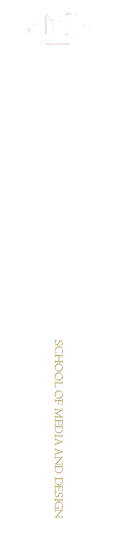
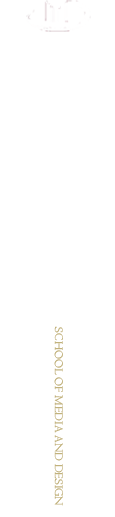
Change the btn up down pos

diff --git a/site/assets/css/home.css b/site/assets/css/home.css
@@ -47,12 +47,23 @@
 
 .page > .banner > .btn-page-up,
 .page > .banner > .btn-page-down {
+    position: absolute;
+    left: 33%;
+
     margin: auto;
     width: 30%;
     color: #b8ac86;
     cursor: pointer;
 
     -webkit-animation: twinkling 1.5s infinite ease-in-out;
+}
+
+.page > .banner > .btn-page-up {
+    top: 15px;
+}
+
+.page > .banner > .btn-page-down {
+    bottom: 20px;
 }
 
 .page > .banner > .btn-page-up > img,
@@ -277,6 +288,9 @@
 #page-1 > .banner {
     padding-top: 5%;
 }
+#page-1 .banner > .btn-page-down {
+    bottom: 70px;
+}
 
 #page-1 .box {
     max-width: 900px;
@@ -287,7 +301,7 @@
 }
 
 #page-2 > .banner > img {
-    margin-top: 10%;
+    margin-top: 20%;
     margin-bottom: 60%;
 }
 
